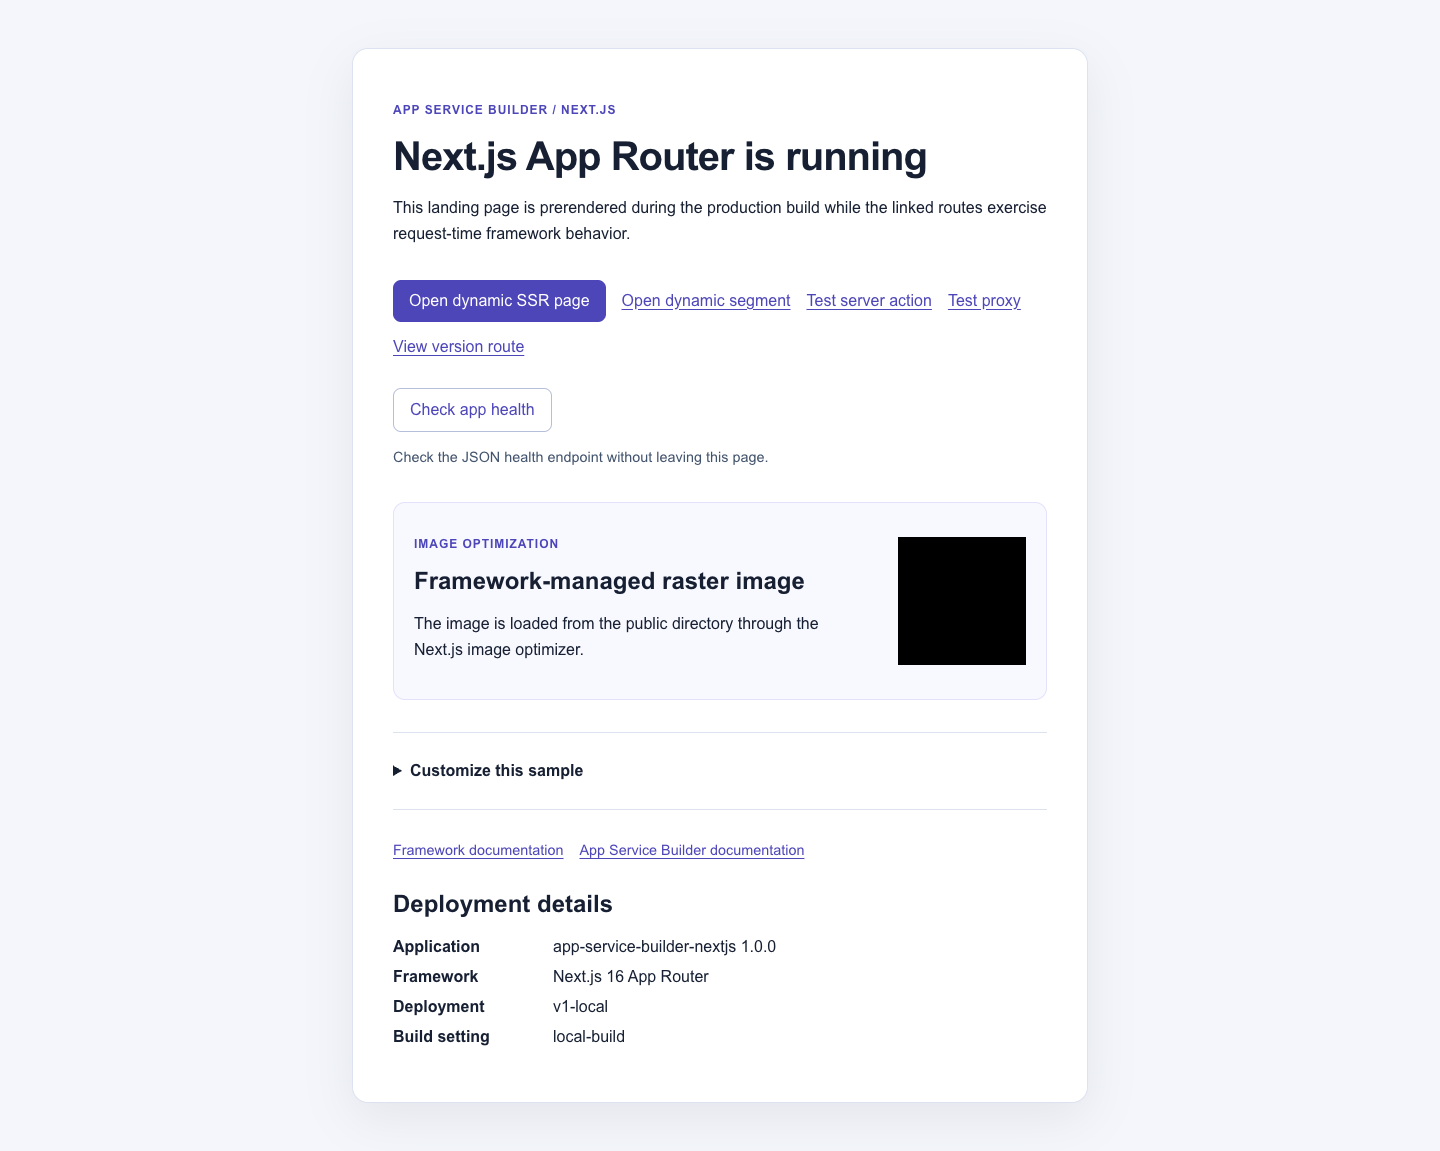
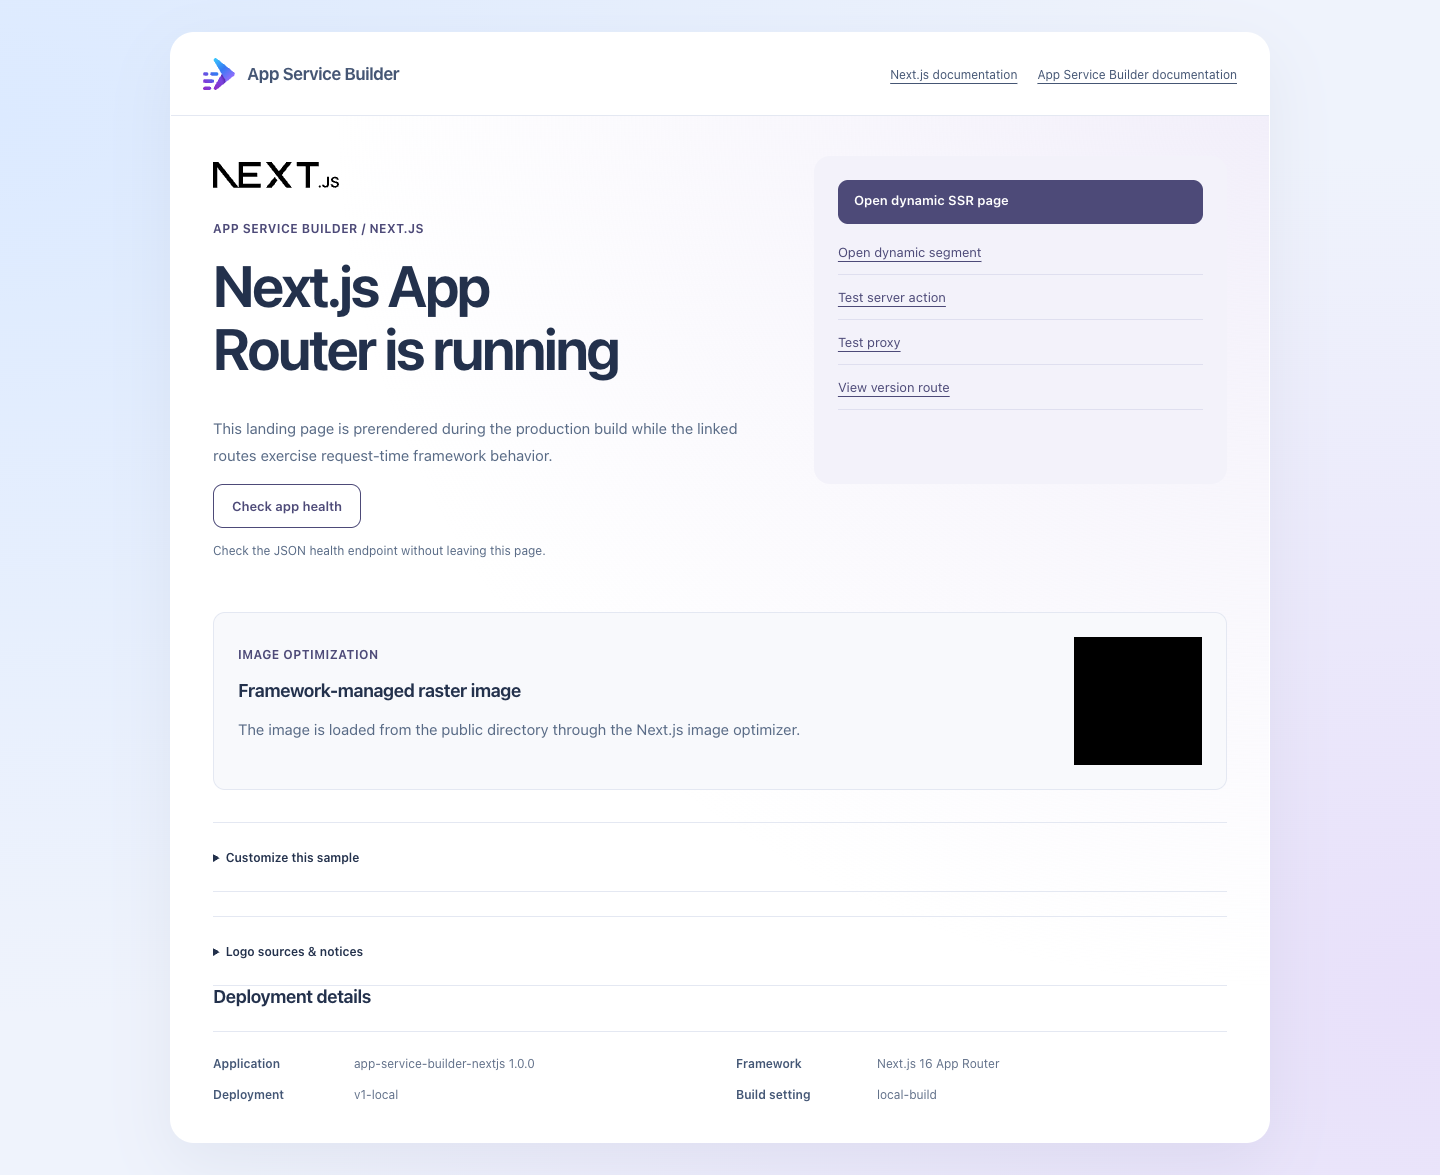
Apply approved language-family sample styling
Preserve sample interactions, inline health checks and honest customization guidance; refresh the locally rendered README screenshot.

diff --git a/src/app/family.css b/src/app/family.css
@@ -1,0 +1,40 @@
+html body{margin:0;min-height:100vh;background:radial-gradient(ellipse at 0 10%,#dceaff,transparent 60%),radial-gradient(ellipse at 100% 85%,#e8e0fa,transparent 60%),#eff3fc;color:#23314c;font-family:"Segoe UI",system-ui,sans-serif;font-size:15px;--accent:#4d4a78;--line:#e4e8f2}
+main.sample-sheet{width:min(1100px,calc(100% - 64px));margin:32px auto;padding:0;background:#fff;border:1px solid #ffffffbd;border-radius:24px;box-shadow:0 22px 65px #3b487515;overflow:hidden}
+.sample-header{display:flex;align-items:center;justify-content:space-between;gap:24px;padding:25px 32px;border-bottom:1px solid var(--line)}
+.sample-brand{display:flex;align-items:center;gap:12px;font-size:17px;font-weight:650;letter-spacing:-.02em;color:#23314c;text-decoration:none}
+.sample-brand img{width:32px;height:32px;object-fit:contain}
+.sample-header nav{display:flex;flex-wrap:wrap;gap:20px;margin:0;font-size:12px}
+.sample-header a{color:#455674;text-underline-offset:4px}
+.sample-content{padding:40px 42px}
+.ecosystem-logo{display:flex;align-items:center;gap:14px;margin-bottom:24px;color:var(--accent);font-size:23px;font-weight:650;letter-spacing:-.03em}
+.ecosystem-logo img{width:126px;height:38px;object-fit:contain}
+.sample-content h1{font-size:clamp(32px,4.4vw,58px);line-height:1.09;letter-spacing:-.04em;font-weight:650;margin:0 0 20px;text-wrap:balance}
+.sample-content h2{font-size:18px;font-weight:650;letter-spacing:-.02em;margin:0 0 14px}
+.sample-content p{line-height:1.8;color:#596b86}
+.sample-content .eyebrow{color:var(--accent);font-size:12px;font-weight:650;letter-spacing:.04em;margin:0 0 14px}
+.sample-content nav{display:flex;flex-wrap:wrap;align-items:center;gap:12px;margin:24px 0 16px}
+.sample-content a{color:var(--accent);text-underline-offset:4px}
+.sample-content button,.sample-content .button{min-height:44px;padding:12px 18px;border:1px solid var(--accent);border-radius:10px;background:var(--accent);color:#fff;font:inherit;font-size:13px;font-weight:600;text-decoration:none;cursor:pointer}
+.sample-content button.secondary{background:#fff;color:var(--accent)}
+.sample-content button:hover,.sample-content .button:hover{filter:brightness(.92)}
+.sample-content button:disabled{opacity:.6;cursor:wait}
+.sample-content .health-result{font-size:12px;line-height:1.8;min-height:24px}
+.sample-content dl{display:grid;gap:13px;margin:24px 0 0;padding-top:24px;border-top:1px solid var(--line);font-size:12px}
+.sample-content dl div{display:grid;grid-template-columns:125px 1fr;gap:16px}
+.sample-content dt{color:#435675;font-weight:600}
+.sample-content dd{margin:0;color:#62718a;overflow-wrap:anywhere}
+.sample-content details{margin-top:24px;padding:12px 0;border-block:1px solid var(--line);font-size:12px}
+.sample-content summary{cursor:pointer;font-weight:600;min-height:44px;align-content:center}
+.sample-content code{font-size:12px;overflow-wrap:anywhere}
+.sample-content .documentation{font-size:12px;justify-content:space-between}
+a:focus-visible,button:focus-visible,summary:focus-visible{outline:3px solid #7660d0;outline-offset:4px}
+.sample-content{display:grid;grid-template-columns:minmax(0,1.15fr) minmax(0,.85fr);column-gap:42px;background:radial-gradient(ellipse at 100% 0,#f2effa,transparent 60%),#fff}
+.sample-content>*{grid-column:1}
+.sample-content>nav:not(.documentation){grid-column:2;grid-row:1/5;display:grid;align-content:start;gap:0;margin:0;padding:24px;background:#f3f2fa;border-radius:16px}
+.sample-content>nav:not(.documentation) a{padding:14px 0;border-bottom:1px solid #dfdfef;font-size:13px}
+.sample-content>nav:not(.documentation) a.button{padding:12px 16px;margin-bottom:6px;border:0}
+.sample-content>.feature-card{grid-column:1/-1;background:#f8f9fc;border-color:var(--line);padding:24px;margin:20px 0 8px}
+.sample-content>details,.sample-content>.documentation,.sample-content>section:not(.feature-card){grid-column:1/-1}
+.sample-content>section:not(.feature-card) dl{grid-template-columns:1fr 1fr;gap:16px 32px}
+.sample-content .health-check{margin-bottom:14px}
+@media(max-width:650px){main.sample-sheet{width:calc(100% - 30px);margin:18px auto;border-radius:19px}.sample-header{padding:22px;flex-wrap:wrap;gap:18px}.sample-header nav{width:100%;justify-content:space-between;gap:12px;font-size:11px}.sample-content{display:block;padding:32px 22px}.sample-content h1{font-size:36px}.sample-content dl div{grid-template-columns:1fr;gap:4px}.sample-content>section:not(.feature-card) dl{grid-template-columns:1fr}.sample-content nav{align-items:stretch}.sample-content .documentation{gap:14px}.sample-content>nav:not(.documentation){margin:24px 0}.sample-content>.feature-card{grid-template-columns:1fr}.sample-content>.feature-card img{justify-self:center}}

diff --git a/src/app/page.js b/src/app/page.js
@@ -5,7 +5,16 @@ import HealthCheck from "./health-check";
 
 export default function Home() {
   return (
-    <main>
+    <main className="sample-sheet">
+      <header className="sample-header">
+        <Link className="sample-brand" href="/"><Image src="/brand/builder.svg" alt="" width={32} height={32} />App Service Builder</Link>
+        <nav aria-label="Documentation">
+          <a href="https://nextjs.org/docs">Next.js documentation</a>
+          <a href="https://builder.appservice.azure.com/docs/">App Service Builder documentation</a>
+        </nav>
+      </header>
+      <div className="sample-content">
+      <div className="ecosystem-logo"><Image src="/brand/next.svg" alt="Next.js" width={126} height={38} /></div>
       <p className="eyebrow">App Service Builder / Next.js</p>
       <h1>Next.js App Router is running</h1>
       <p>
@@ -44,13 +53,15 @@ export default function Home() {
       <details>
         <summary>Customize this sample</summary>
         <p>In your fork, edit the home page in <code>src/app/page.js</code> and the
-          styles in <code>src/app/globals.css</code>. Commit your changes and
+          visual-family styles in <code>src/app/family.css</code>. Commit your changes and
           deploy your fork through your Builder App.</p>
       </details>
-      <nav className="documentation" aria-label="Documentation">
-        <a href="https://nextjs.org/docs">Framework documentation</a>
-        <a href="https://builder.appservice.azure.com/docs/">App Service Builder documentation</a>
-      </nav>
+      <details>
+        <summary>Logo sources &amp; notices</summary>
+        <p>The unmodified <a href="https://vercel.com/geist/brands">Next.js wordmark</a>
+          identifies this framework. Next.js is a trademark of Vercel, Inc.
+          App Service Builder uses its supplied official mark. No endorsement implied.</p>
+      </details>
 
       <section aria-labelledby="deployment-heading">
         <h2 id="deployment-heading">Deployment details</h2>
@@ -75,6 +86,7 @@ export default function Home() {
           </div>
         </dl>
       </section>
+      </div>
     </main>
   );
 }

diff --git a/src/app/layout.js b/src/app/layout.js
@@ -1,4 +1,5 @@
 import "./globals.css";
+import "./family.css";
 
 export const metadata = {
   title: {

diff --git a/README.md b/README.md
@@ -21,8 +21,23 @@ the hosted request-origin boundary.
 
 ![Next.js root page with framework route actions, inline app health feedback, image optimization, and customization help](docs/images/sample.png)
 
-Rendered locally at `/` from the standalone production build with sample
-settings. This screenshot is not evidence of an Azure deployment.
+**LOCAL — Microsoft Edge, 1440px desktop, root `/`, standalone production build.**
+This screenshot is not evidence of an Azure deployment.
+
+The route-focused daylight composition keeps prerendering, request-time SSR,
+dynamic segments, the existing Server Action, proxy checks, and the real
+`/shape.png` raster through the Next.js image optimizer. Edit `src/app/page.js`
+for content and `src/app/family.css` for the visual family; baseline styles
+remain in `src/app/globals.css`. The documented hosted-origin Server Action
+limitation below is unchanged; local rendering does not qualify that workflow.
+
+### Logo provenance
+
+`public/brand/builder.svg` is the supplied official App Service Builder mark.
+`public/brand/next.svg` is an unmodified copy of the existing official Next.js
+wordmark in `public/next.svg`; see [Vercel brand guidance](https://vercel.com/geist/brands).
+Next.js is a trademark of Vercel, Inc. Logos identify the stack; no endorsement
+is implied.
 
 **Check app health** reads this app's compatibility `/health` JSON endpoint and
 displays the result in place, including failures and retry guidance. It does not
